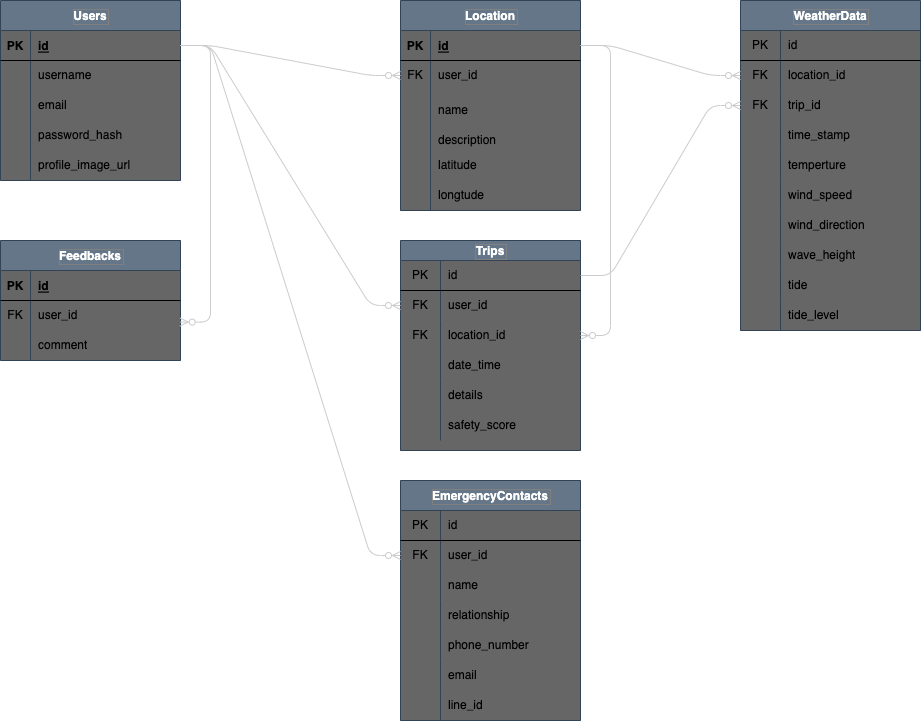
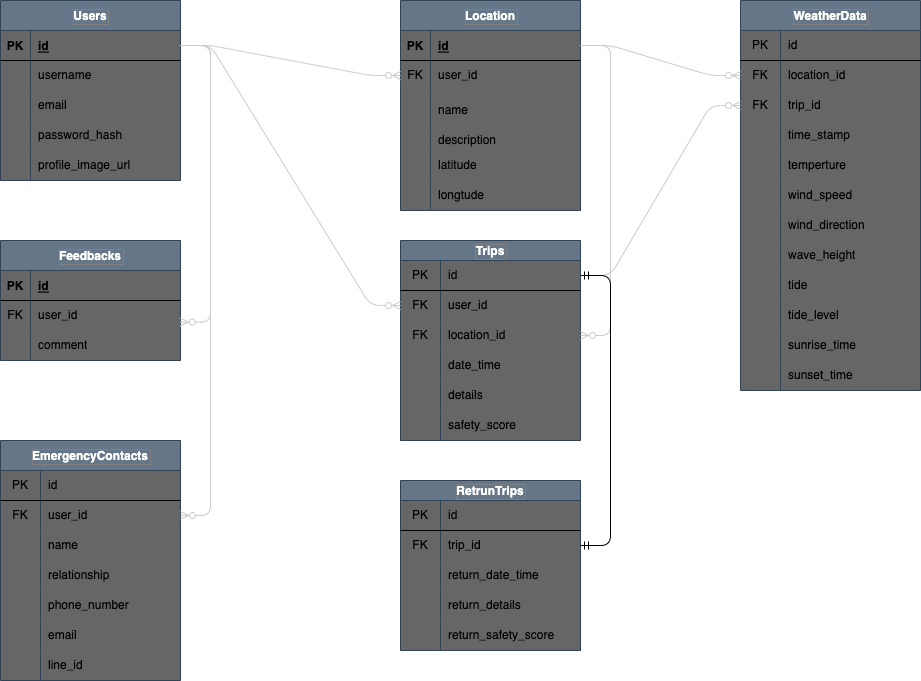
return機能の見直し

diff --git a/開発設計書/API/API.md b/開発設計書/API/API.md
@@ -52,6 +52,25 @@
 - DELETE `/api/trips/{trip_id}`
   - 特定の出船予定を削除します。
 ---
+## Trip Return (帰投情報)
+
+#### 帰投情報の記録
+- POST `/api/trips/{trip_id}/return`
+  - ユーザーが無事帰投したことを記録します。帰投時刻やその他の詳細情報を含むことができます。
+
+#### 帰投情報の確認
+- GET `/api/trips/{trip_id}/return`
+  - 特定のトリップの帰投情報を取得します。ユーザーが予定通りに帰投したかどうかの確認に使用します。
+
+#### 帰投情報の更新
+- PUT `/api/trips/{trip_id}/return`
+  - すでに記録された帰投情報を更新します。例えば、帰投時間の変更や、追加の詳細情報を記録する場合に使用します。
+
+#### 帰投情報の削除
+- DELETE `/api/trips/{trip_id}/return`
+  - 誤って入力された帰投情報を削除します。
+
+---
 ## Trip history
 #### 特定のトリップに関連する天気データの一覧取得
 - **GET** `/api/trips/{trip_id}/weather`

diff --git a/開発設計書/DB/table.md b/開発設計書/DB/table.md
@@ -34,6 +34,14 @@
 | `user_id`        | INT           | ユーザーのID       | FK                   |
 | `location_id`    | INT           | 地点のID           | FK                   |
 
+## TripReturn (帰投情報)
+
+| Field            | Type        | Description               | Constraints            |
+|------------------|-------------|---------------------------|------------------------|
+| `return_id`      | INT         | 帰投情報の一意識別子       | PK, AI, UQ             |
+| `trip_id`        | INT         | 関連する出船予定の一意識別子 | FK                     |
+| `return_time`    | DATETIME    | 帰投時刻                   |                        |
+| `return_details` | TEXT        | 帰投に関する詳細情報       | NULL許容               |
 
 ## EmergencyContacts (緊急連絡先情報)
 

diff --git a/開発設計書/UI/画面設計.md b/開発設計書/UI/画面設計.md
@@ -35,10 +35,13 @@
 
 #### 8. 緊急連絡先管理画面
 - 緊急連絡先を管理する画面。
-- 必要な要素: 連絡先の名前、関係、電話番号、メールアドレス、LINE ID入力フィールド。
+- 必要な要素: 連絡先の名前、関係、電話番号、メールアドレス、入力フィールド。
 
 #### 9. フィードバック送信画面
 - フィードバックを送信する画面。
-- 必要な要素: テキスト入力エリア、送信ボタン。
+- 必要な要素: テキスト入力エリア、送信ボタン。  
+
 
 ![alt text](<Kayak Fishing App.png>)
+
+![alt text](画面遷移図.png)

diff --git a/開発設計書/FLOW/flow.md b/開発設計書/FLOW/flow.md
@@ -15,7 +15,6 @@
 
 #### 出船実行フロー
 1. 計画された日時にユーザーは出船。
-2. アプリは出船中の天気データを収集・記録。
 3. 帰投後にアプリ内の帰着ボタンを押す。
 
 #### 出船履歴確認フロー
